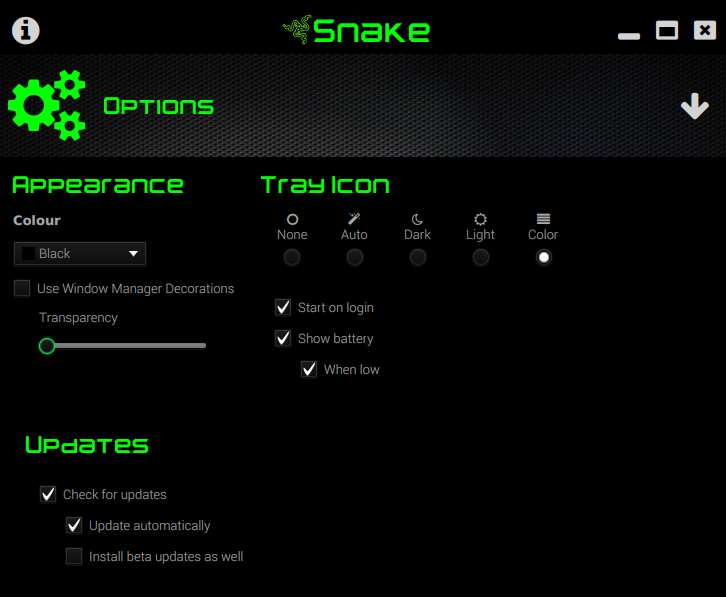
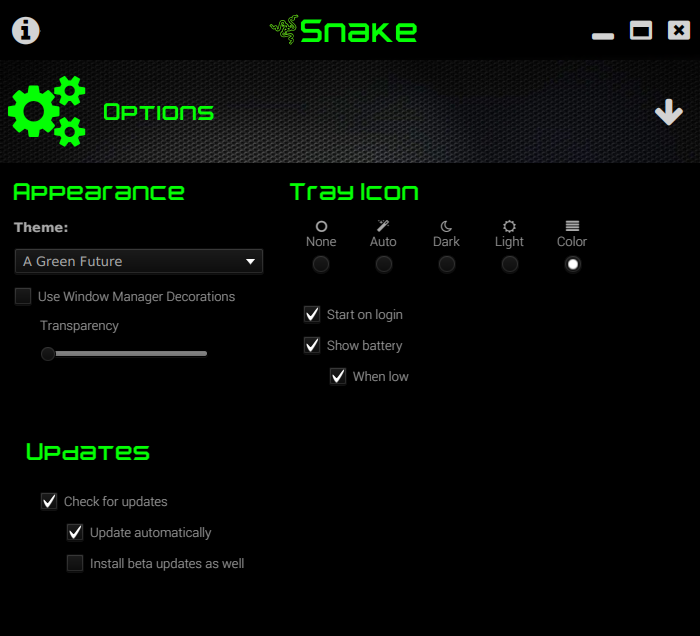
Updated README.md

diff --git a/README.md b/README.md
@@ -15,10 +15,10 @@ Snake is application to control and configure your Razer devices on Linux. Makin
  * Set and configure Razer effects such as Breath, Wave, Static and more.
  * Control over individual LEDs using the Matrix feature.  *(incomplete)*
  * Battery status.
- * Integrated System Tray icon (or indicator).  *(incomplete)*
+ * Integrated System Tray icon (or indicator)
  * Global brightness controls the brightness of all devices at once.
- * Macro support. *(incomplete)*
- * Themes *(coming soon)*
+ * Macro support. *(incomplete, awaiting Driver changes)*
+ * Themes
  
 ## Install
 
@@ -35,14 +35,14 @@ The self extracting installer is the easiest to use. You will be asked for a loc
 #### From The Command Line
 
 ```
-wget -O snake-amd64-installer.sh \
- http://www.bithatch.co.uk/downloads/snake/snapshot/snake-amd64-installer.sh && \
- sh snake-amd64-installer.sh
+wget -O snake-installer-amd64.sh \
+ http://www.bithatch.co.uk/downloads/snake/snapshot/snake-installer-amd64.sh && \
+ sh snake-installer-amd64.sh
 ```
 
 #### From Your Desktop
 
- *  Download [snake-amd64-installer.sh](http://www.bithatch.co.uk/downloads/snake/snapshot/snake-amd64-installer.sh).
+ *  Download [snake-amd64-installer.sh](http://www.bithatch.co.uk/downloads/snake/snapshot/snake-installer-amd64.sh).
  *  Add Execute permission to the downloaded *snake-installer.sh* in your file manager.
  *  Use the Open action in your file manager to start the installer.
 
@@ -139,7 +139,7 @@ mvn javafx:run
 Or you can install what you have built.
 
 ```
-snake-dist/target/snake-amd64-installer.sh
+snake-dist/target/snake-installer-amd64.sh
 ```
 
 ## Options
@@ -154,7 +154,9 @@ To access options, click the cog icon, ** Options**.
 
 Various options for configuration how Snake looks.
 
-**Colour** - Allows the background colour to be set. Note, this option will be removed in the future and replaced with themes.
+**Theme** - Allows the look of Snake to be changed. A selection of themes that are colour variations of the default are provided, with more to come. Creating your own will be documented soon, but the adventurous can try by copying any existing theme module and adjusting the contents accordingly.
+
+![Themes](images/themes.png  "Themes")
 
 **Use Window Manager Decorations** - By default, Snake uses "Client Side Decorations", and draws it's own window title bar and window management buttons (close, min, max). Turn this option off to use window manager decorations instead. In this mode, Options and About are both insteads accessed from icons at the bottom right of the overview screen.
 
@@ -241,7 +243,7 @@ A value of 1000 to 2000 is probably comfortable for daily usage.
  
 ### Effects
  
- Many devices are capable of multiple effects. Some of those effects have their own configuration, and often it is possible to configure different effects for each region.
+Many devices are capable of multiple effects. Some of those effects have their own configuration, and often it is possible to configure different effects for each region.
  
 #### None
  
@@ -278,6 +280,22 @@ The region or device will gently pulsate different colours.
 Configuration allows changing of the colours and a special random mode.
 
  ![Breath](images/breath.png  "Breath")
+
+#### Ripple
+
+The region or device will light a ripple effect moving outwards from the centre of the device, with either a random colour or a fixed single colour.
+
+ ![Ripple](images/ripple.png  "Ripple")
+
+#### Pulsate
+
+The region or device will gently pulsate a single fixed colour.
+
+#### Starlight
+
+The region or device will twinkle lights on and off using  either a random colour or a fixed single colour to mimick a night sky.
+
+ ![Starlight](images/starlight.png  "Starlight")
  
 #### Matrix
 
